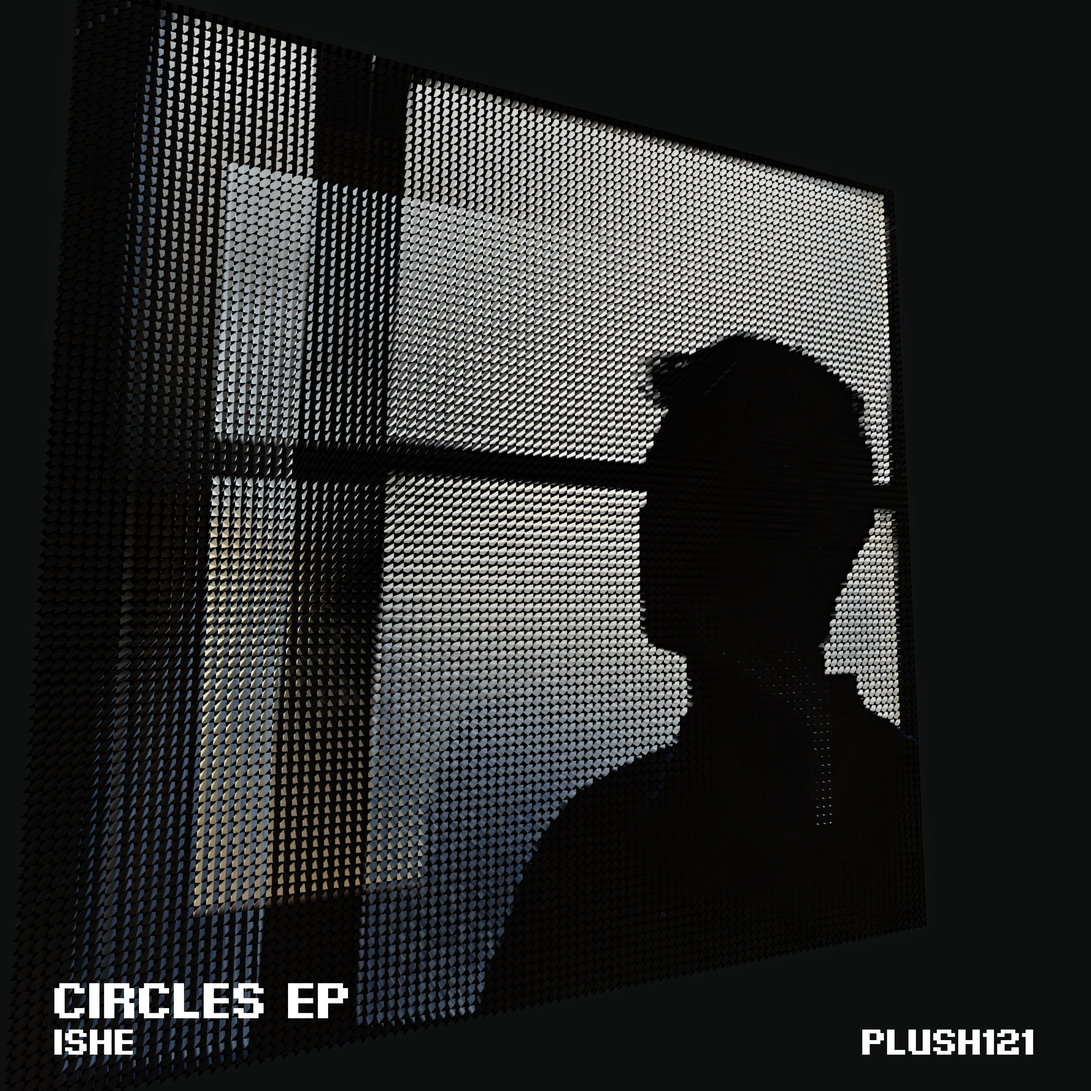
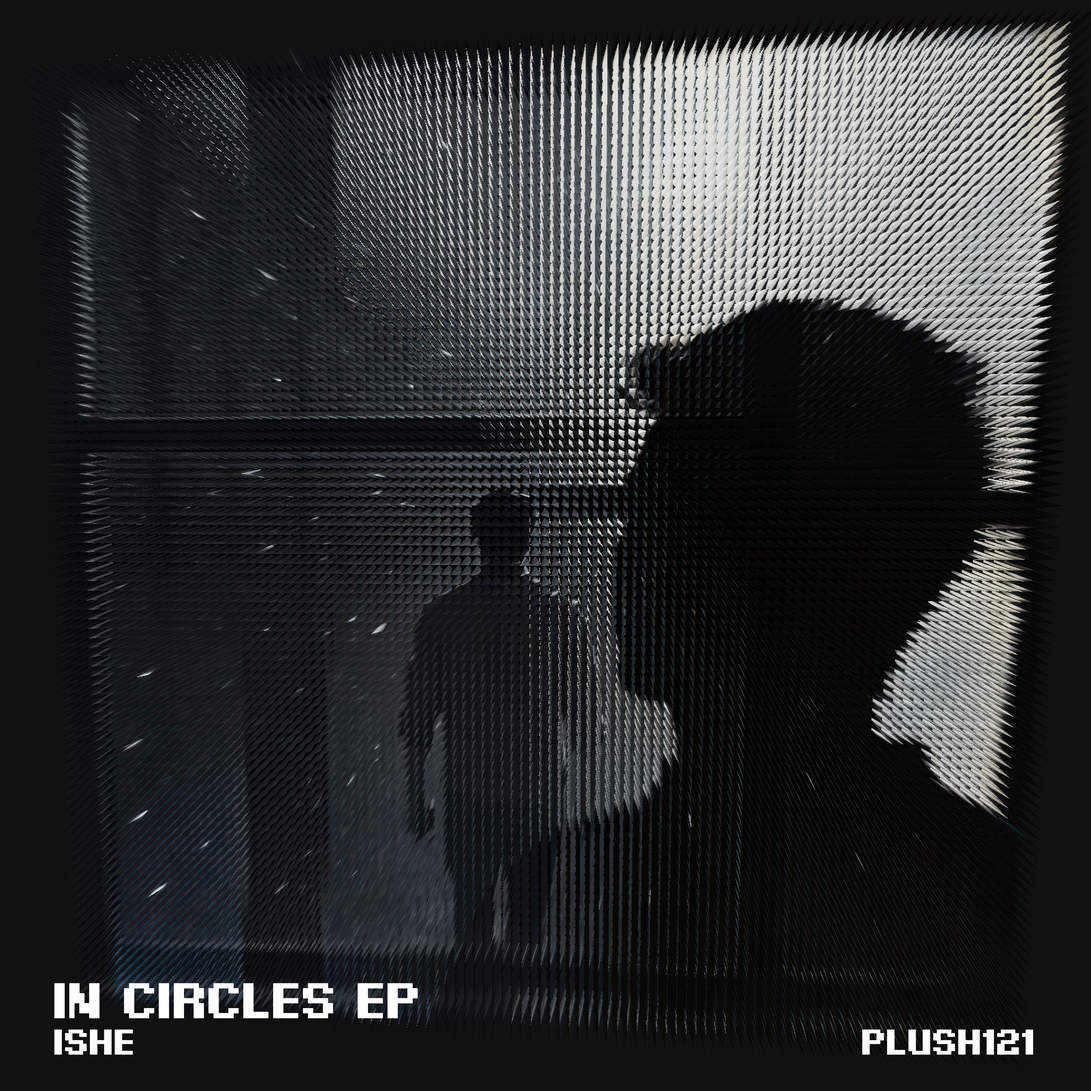
fix: update artwork and set controls to hidden by default

diff --git a/website/public/simulations/circles/index.js b/website/public/simulations/circles/index.js
@@ -25,8 +25,8 @@ const CONFIG = {
         catalog: "PLUSH121",
         year: "2025",
         artworkUrl: "../../cat/PLUSH121/PLUSH121.jpg", // Update with actual path
-        purchaseUrl: "https://plush.bandcamp.com/album/in-circles-ep",
-        buttonText: "GET THIS TRACK"
+        purchaseUrl: "https://ln.promo.ly/l/I8dbCK-",
+        buttonText: "GET THIS RELEASE"
     },
     // Fallback audio configuration (used when primary track finishes)
     fallbackAudioUrl: "https://azura.drmnbss.org:8010/radio.mp3",
@@ -342,8 +342,8 @@ function initializeUI() {
     // Set up controls toggle
     if (controlsToggle && controls) {
         // Initially hide controls and set button text
-        controls.style.display = 'block';
-        controlsToggle.textContent = '×';
+        controls.style.display = 'none';
+        controlsToggle.textContent = '+';
         
         controlsToggle.addEventListener('click', () => {
             const isVisible = controls.style.display === 'block';
